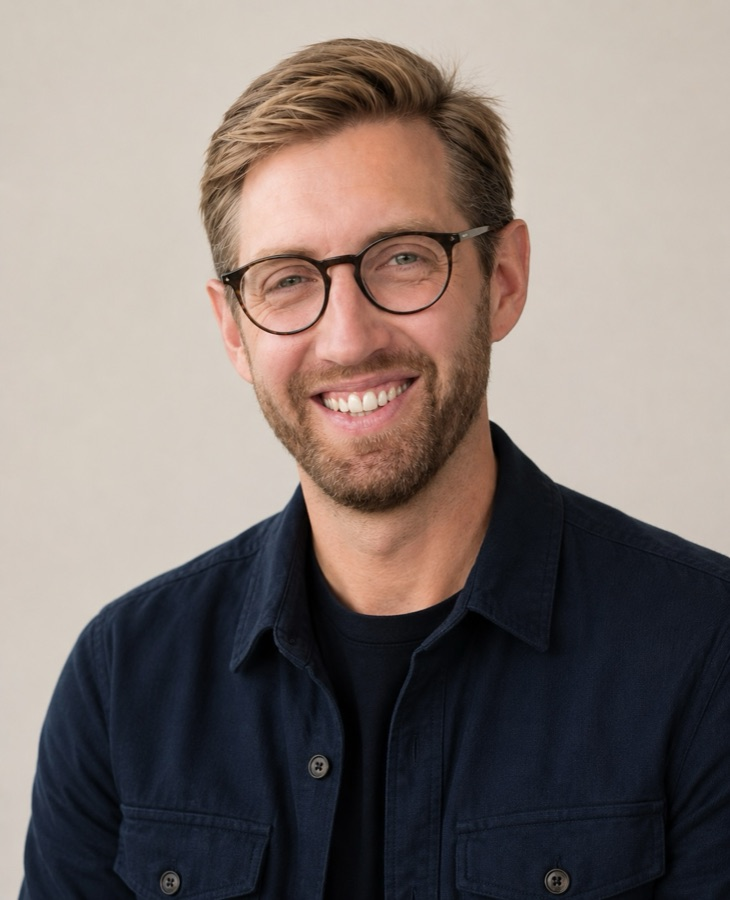
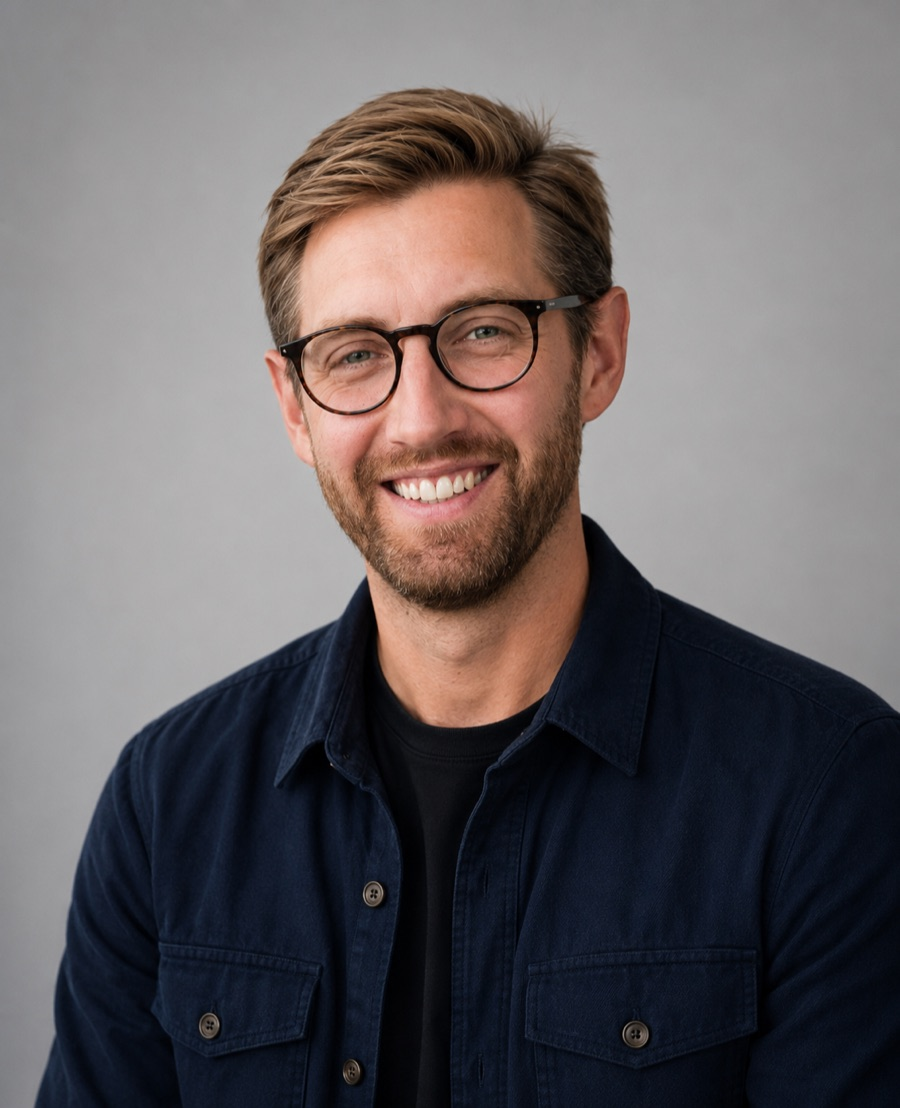
Replace portrait with grey-background version

diff --git a/index.html b/index.html
@@ -44,7 +44,7 @@
   <!-- One-screen site: portrait + intro. The photo comes first in the code so it lands on top on mobile;
        on desktop CSS places it on the right. -->
   <div class="photo">
-    <img src="assets/joel-roos.jpg" alt="Portrait of Joel Roos" width="731" height="900">
+    <img src="assets/joel-roos.jpg?v=2" alt="Portrait of Joel Roos" width="900" height="1108">
   </div>
 
   <main class="text">
